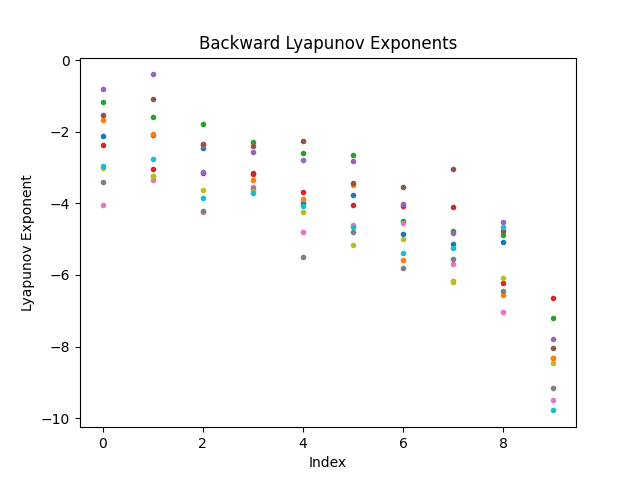
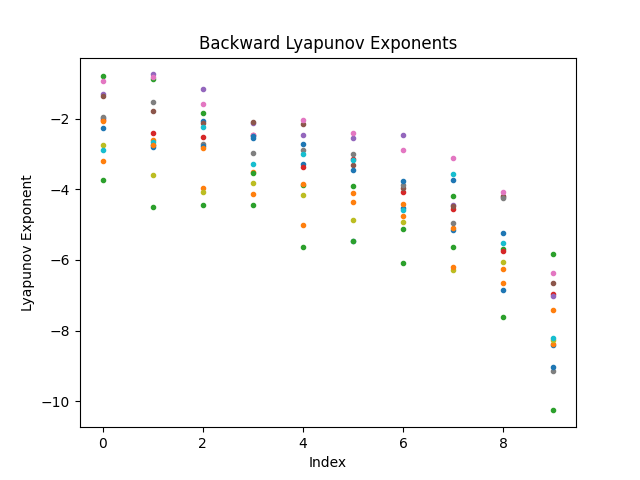
.

diff --git a/code/nn/main.py b/code/nn/main.py
@@ -6,6 +6,8 @@ from mnist import load_mnist
 import sys
 import os
 
+num = 13
+is_forward = False
 
 def sigmoid(x):
     return 1 / (1 + np.exp(-x))
@@ -23,6 +25,7 @@ def softmax(x):
         return y.T
     x = x - np.max(x)  # 溢出对策
     return np.exp(x) / np.sum(np.exp(x))
+
 
 def cross_entropy_error(y, t):
     if y.ndim == 1:
@@ -160,8 +163,6 @@ if __name__ == "__main__":
 
     forward_lambdas_s = []
     backward_lambdas_s = []
-    num = 10
-    is_forward = False
 
     for tot in range(num):
 
@@ -257,8 +258,10 @@ if __name__ == "__main__":
     plt.ylabel("Lyapunov Exponent")
 
     if is_forward:
-        plt.savefig(os.path.join(os.path.dirname(__file__), "forward_lyapunov.png"))
+        plt.savefig(os.path.join(os.path.dirname(
+            __file__), "forward_lyapunov.png"))
     else:
-        plt.savefig(os.path.join(os.path.dirname(__file__), "backward_lyapunov.png"))
+        plt.savefig(os.path.join(os.path.dirname(
+            __file__), "backward_lyapunov.png"))
 
     plt.show()
